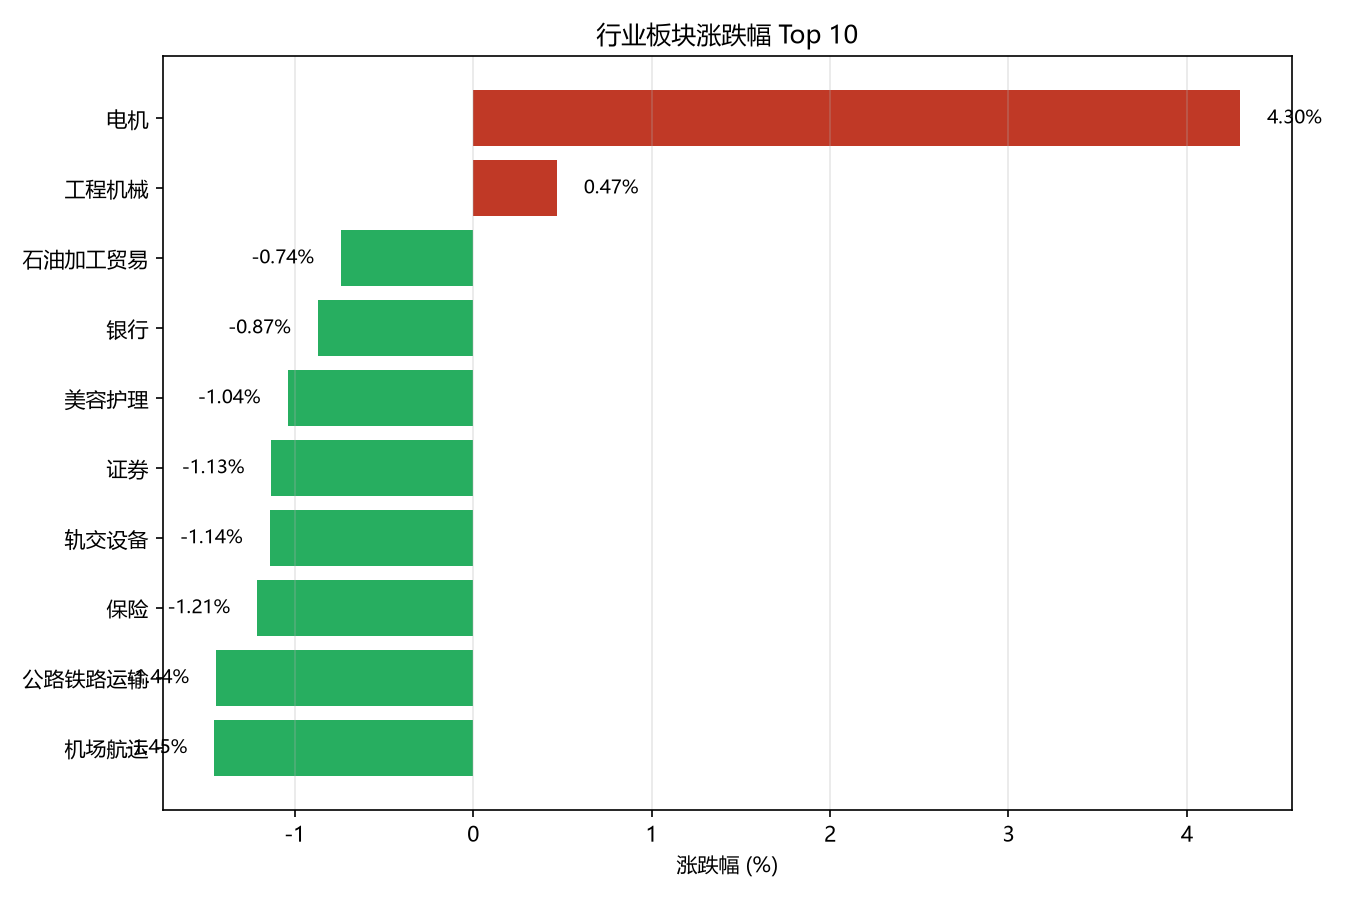
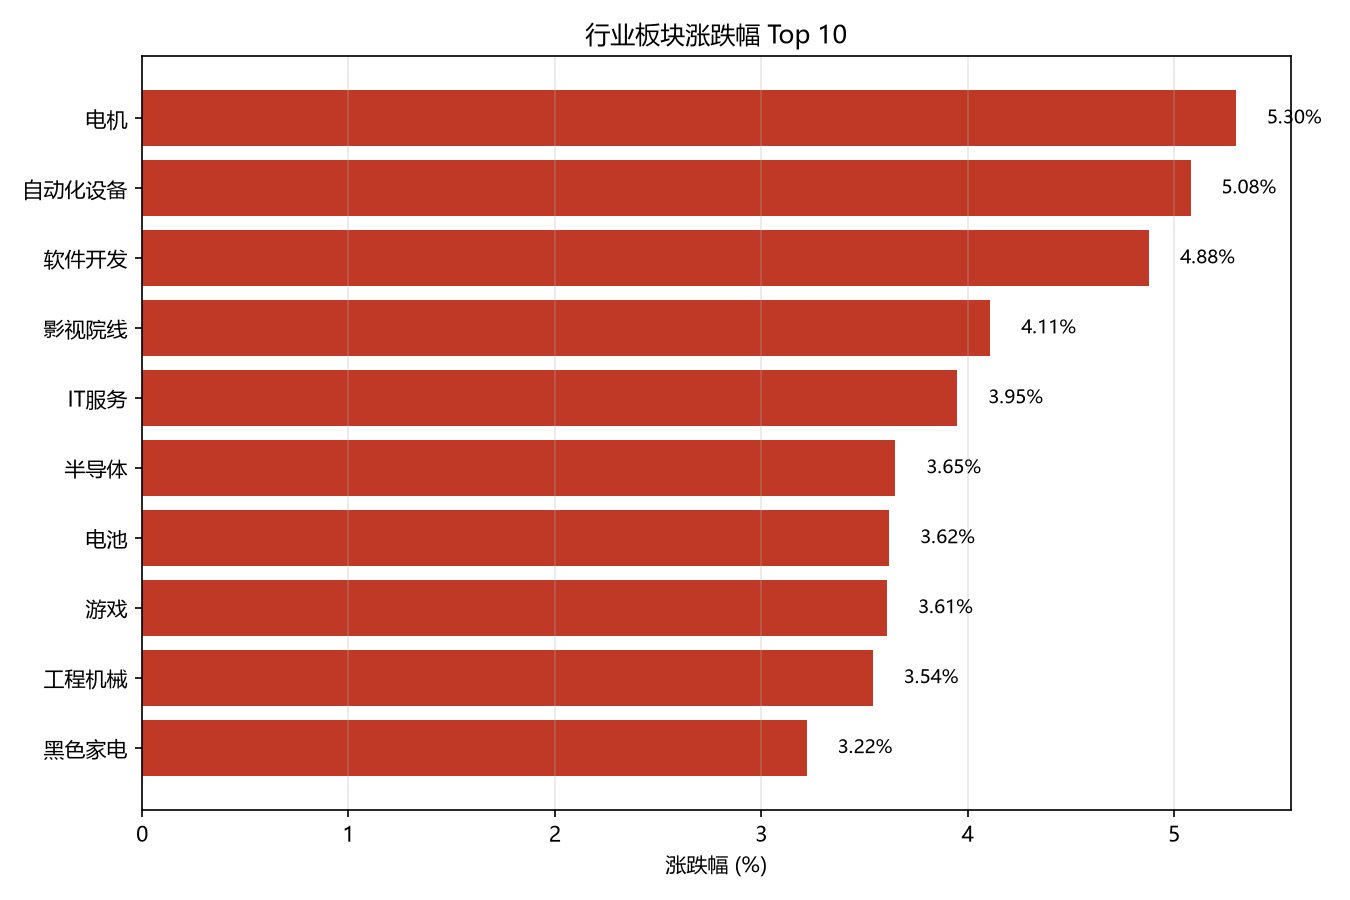
报告改为快照归档：README 只留口径与方法，结论按日期存入 reports/
- 新增 reports/20261022.md、reports/20261024.md，README 不再内嵌会过期的数字
- 新增 stats.py：从快照输出涨跌分布、r、R²、p 值，避免只报相关系数
- README 补目录结构与两源口径差异（东财 496 / 同花顺 90 不可跨源比较）

diff --git a/stats.py b/stats.py
@@ -1,0 +1,47 @@
+"""Compute the numbers the README/reports need from a local snapshot. Read-only."""
+import math
+import sys
+
+import pandas as pd
+
+CSV = sys.argv[1]
+df = pd.read_csv(CSV, encoding='utf-8-sig')
+
+n = len(df)
+up = int((df['涨跌幅'] > 0).sum())
+down = int((df['涨跌幅'] < 0).sum())
+flat = int((df['涨跌幅'] == 0).sum())
+lo, hi = df['涨跌幅'].min(), df['涨跌幅'].max()
+r = df['涨跌幅'].corr(df['成交额'])
+
+# two-sided p for Pearson r, no scipy: t -> numeric integration of the t pdf
+def t_p(r, n):
+    if n < 4 or abs(r) >= 1:
+        return float('nan')
+    t = abs(r) * math.sqrt(n - 2) / math.sqrt(1 - r * r)
+    dfree = n - 2
+    c = math.gamma((dfree + 1) / 2) / (math.sqrt(dfree * math.pi) * math.gamma(dfree / 2))
+    f = lambda u: c * (1 + u * u / dfree) ** (-(dfree + 1) / 2)
+    lo_b, steps, h = t, 4000, (t * 12) / 4000
+    s = f(lo_b) + f(lo_b + steps * h)
+    for i in range(1, steps):
+        s += f(lo_b + i * h) * (4 if i % 2 else 2)
+    tail = s * h / 3
+    return 2 * tail
+
+top5 = df.sort_values('涨跌幅', ascending=False).head(5)
+amt5 = df.sort_values('成交额', ascending=False).head(5)
+total_amt = df['成交额'].sum()
+
+print(f'FILE {CSV}')
+print(f'n={n} up={up} down={down} flat={flat} range={lo:.2f}~{hi:.2f}')
+print(f'r={r:.4f} R2={r * r:.4f} p={t_p(r, n):.4f}')
+print('--- 涨跌幅 Top5 ---')
+for _, row in top5.iterrows():
+    print(f"  {row['板块名称']}\t{row['涨跌幅']:+.2f}%\t成交额 {row['成交额']:.2f}")
+print(f'--- 成交额 Top5 (上涨 {int((amt5["涨跌幅"] > 0).sum())}/{len(amt5)}) ---')
+for _, row in amt5.iterrows():
+    print(f"  {row['板块名称']}\t{row['成交额']:.2f}\t{row['涨跌幅']:+.2f}%")
+print(f'成交额 Top5 合计 {amt5["成交额"].sum():.2f} / 全市场 {total_amt:.2f} = {amt5["成交额"].sum() / total_amt:.1%}')
+print(f'上涨板块: {", ".join(df[df["涨跌幅"] > 0].sort_values("涨跌幅", ascending=False)["板块名称"].tolist()) or "无"}')
+print(f'下跌板块数前3: {", ".join(df.sort_values("涨跌幅")[["板块名称"]].head(3)["板块名称"].tolist())}')

diff --git a/README.md b/README.md
@@ -1,87 +1,65 @@
 # 行业板块行情分析
 
+抓 A 股行业板块的**单日行情快照**，落地成本地 CSV，下游脚本离线分析出涨跌分布、涨跌幅与成交额的关系、成交额集中度，并生成一张 Top 10 图。
+
+一条原则贯穿全项目：**只有 `update.py` 联网，其余脚本只读本地快照**。数据源挂了不影响分析和出图。
+
+## 目录结构
+
+```
+update.py     抓取 → data/*.csv            唯一联网的脚本
+analyze.py    读快照，输出三段分析          不联网
+chart.py      读快照，画 top10.png          不联网
+stats.py      从快照算出报告要用的数字（分布 / 相关系数 / p 值）
+check.py      环境与依赖自检
+data/         industry_YYYYMMDD_HHMMSS.csv 快照 + latest.csv（最新一份）
+reports/      每次快照的结论归档，一个快照一篇
+```
+
 ## 数据
 
 | 项目 | 内容 |
 |---|---|
-| 数据源 | 同花顺行业板块（akshare `stock_board_industry_summary_ths`） |
-| 抓取时间 | 2026-10-22 21:06:47 |
-| 快照文件 | `data/industry_20261022_210647.csv`（`latest.csv` 为同一份） |
-| 数据量 | 90 行 × 7 个业务字段 |
-| 字段 | 板块名称、涨跌幅、上涨家数、下跌家数、总市值、换手率、成交额 |
+| 主源 | 东方财富 `stock_board_industry_name_em`：496 个细分板块，含总市值、换手率 |
+| 备源 | 同花顺 `stock_board_industry_summary_ths`：90 个一级行业，缺总市值、换手率 |
+| 降级规则 | 主源失败自动切备源；两源都失败则保留上次快照并提示，不删旧数据 |
+| 当前快照 | `data/latest.csv`（抓取时间见该文件的「抓取时间」列） |
+| 标准字段 | 板块名称、涨跌幅、上涨家数、下跌家数、总市值、换手率、成交额 |
 
-> ⚠ 本数据源不含「总市值」和「换手率」两个字段，因此相关分析改用「成交额」替代，
-> 并在下文逐处标注。分析脚本 `analyze.py` 会自动检测字段是否可用，缺失时降级而非报错。
+> ⚠ **口径不同，跨源数字不可直接比较。** 东财 496 行是多层级分类（同一行业在不同粒度重复出现），
+> 同花顺 90 行是单一层级。同一数据源的不同日期可以比较；不同数据源之间不行。
 
-## 结论
 ![涨跌幅 Top10](top10.png)
-### 1. 市场整体：极端普跌
 
-90 个行业板块中 **上涨 2 个、下跌 88 个、平盘 0 个，下跌占比 97.8%**，
-涨跌幅区间 -6.52% ~ +4.30%。
+## 快照报告
 
-仅有的 2 个上涨板块：电机 +4.30%、工程机械 +0.47%。
+每次抓完存一份结论，不改写历史 —— 否则 README 里的数字会随数据一起过期：
 
-> 注：因为全市场只有 2 个板块上涨，所谓「涨幅榜前 5」中有 3 个实际是下跌的，
-> 本质上是「跌幅最小的 5 个」。原始表述在此行情下会误导读者。
+- `reports/20261022.md` —— 2026-10-22 快照（同花顺，90 行）：普跌日，90 个板块里 88 个下跌
+- `reports/20261024.md` —— 2026-10-24 快照（同花顺，90 行）：普涨日 + 与 10/22 的两日对比
 
-涨幅前 5 名：
-
-| 排名 | 板块 | 涨跌幅 |
-|---|---|---|
-| 1 | 电机 | +4.30% |
-| 2 | 工程机械 | +0.47% |
-| 3 | 石油加工贸易 | -0.74% |
-| 4 | 银行 | -0.87% |
-| 5 | 美容护理 | -1.04% |
-
-### 2. 涨跌幅与交易活跃度的关系
-
-涨跌幅与成交额的相关系数为 **-0.135**，属弱负相关：
-成交额越大的板块，倾向于跌得越多，但关系并不紧密。
-
-（原分析使用「换手率」，本数据源无此字段，改用「成交额」作为交易活跃度的代理指标。）
-
-### 3. 成交额 Top5 的涨跌情况
-
-成交额最大的 5 个板块 **全部下跌（0 / 5 上涨）**：
-
-| 板块 | 成交额（亿元） | 涨跌幅 |
-|---|---|---|
-| 半导体 | 1901.86 | -2.96% |
-| 通信设备 | 1192.75 | -3.85% |
-| 元件 | 796.29 | -5.38% |
-| 电池 | 531.47 | -2.82% |
-| 通用设备 | 490.21 | -1.81% |
-
-这 5 个板块合计成交 **4912.6 亿元**，占全市场 15418.6 亿元的 **31.9%**。
-资金高度集中在跌幅最大的科技制造板块 —— 典型放量下跌。
-
-## 发现的问题
+## 口径与陷阱
 
 - **数据源字段不一致**：同花顺缺「总市值」「换手率」，东方财富有但板块数为 496（口径更细）。
   两个源的板块划分不同（90 vs 496），跨源比较必须先统一口径，否则结论不可比。
 - **字段存在 ≠ 字段有值**：`latest.csv` 里「总市值」「换手率」两列是存在的，但值全为空。
   如果直接 `df['总市值']`，排序会退化成「不排序」，产出看似正常、实则错误的 Top5。
-  `analyze.py` 中的 `pick()` 函数用两个条件（列存在 + 非全空）来防止这类静默错误。
-- **极端行情下的表述陷阱**：单日普跌时，「涨幅榜」的语义失效。
-  结论必须同时给出涨跌分布，否则读者会把「跌幅最小」误读成「上涨」。
+  `analyze.py` 中的 `pick()` 用两个条件（列存在 + 非全空）来防止这类静默错误。
+- **极端行情下的表述陷阱**：单日普跌时，「涨幅榜」的语义失效。结论必须同时给出涨跌分布，
+  否则读者会把「跌幅最小」误读成「上涨」。
+- **成交额 ≠ 活跃度**：换手率是比例（成交量 ÷ 流通股本），成交额是金额（成交量 × 均价）。
+  用成交额排序得到的是「规模最大」而不是「换手最活跃」。更严谨的代理是「成交额 ÷ 流通市值」，
+  但本数据源不提供流通市值。
 
 ## 局限与下一步
 
-- **数据维度：只有单日横截面，没有时间维度。** 所有结论仅描述当日状态；无法计算变化率，
-  因此不支持任何「趋势」「资金流向」「转向」类判断。要做趋势分析，至少需要连续多日快照
-  ——现有的 `data/industry_*.csv` 快照机制已能支撑，缺的只是定时采集。
-- **指标代理：用成交额代替换手率，存在系统性偏差。** 换手率 = 成交量 ÷ 流通股本（比例），
-  成交额 = 成交量 × 平均价（金额）。后者既受价格影响，也没有除以股本，因此「成交额 Top5」
-  排序接近「规模 Top5」而不是「活跃度 Top5」。更严谨的替代是「成交额 ÷ 流通市值」，
-  但本数据源不提供流通市值。
-- **统计检验：相关结论不具备显著性。** 涨跌幅与成交额的相关系数 -0.135，n=90，
-  检验得 p≈0.20，在 0.05 水平下不显著，不足以支持「两者存在关联」的判断。
-  下一步应补充 p 值报告，或改用更稳健的方法（Spearman 秩相关、分组对比）。
-- **口径固定：跨数据源不可比。** 东方财富为多层级行业分类（496 行，同一行业在不同粒度
-  重复出现），同花顺为单一层级（90 行）。Top 榜在两种口径下不可直接比较。
-  下一步应固定单一数据源，或建立口径映射表。
+- **只有单日横截面，没有时间维度。** 所有结论仅描述当日状态；无法计算变化率，
+  因此不支持任何「趋势」「资金流向」「转向」类判断。快照机制已能支撑时序分析，缺的只是定时采集。
+- **两个采样点不构成趋势。** 10/22 与 10/24 同源（同花顺 90 行）可以比较分布变化，
+  但方向性结论至少要连续 20 个交易日。
+- **相关分析必须同时报 r、R²、p 值。** 只报 r 会高估关系强度：本数据 r≈0.27 时 R² 仅 0.073，
+  即成交额只能解释涨跌幅 7.3% 的变异。`stats.py` 已同时输出三者。
+  下一步可改用更稳健的方法（Spearman 秩相关、分组对比）。
 - **工程化缺口：无定时采集、无自动测试。** 数据依赖手工运行 `update.py`，无法保证每日更新；
   代码改动后也没有断言校验，只能靠人工看输出。下一步应加入调度（每日收盘后运行）
   与基础校验断言（行数 > 0、涨跌幅落在合理区间等）。
@@ -89,16 +67,17 @@
 ## 如何复现
 
 ```
-python update.py     # 抓数据 → data/latest.csv
-python analyze.py    # 三个问题的分析
-python chart.py      # 生成 top10.png
+python update.py                    # 抓数据 → data/latest.csv（需联网）
+python analyze.py                   # 三段分析
+python chart.py                     # 生成 top10.png
+python stats.py data/latest.csv     # 报告要用的分布 / 相关系数 / p 值
 ```
 
-`analyze.py` 与 `chart.py` 只读本地 CSV，不联网；只有 `update.py` 需要网络。
+`analyze.py`、`chart.py`、`stats.py` 只读本地 CSV，不联网；只有 `update.py` 需要网络。
 数据源不可用时，`update.py` 会自动切换备用源；全部失败则保留上次快照并提示。
 
 ## 环境
 
-- Python 3.14.5（C:\Python314），虚拟环境 `.venv`
+- Python 3.14.5，虚拟环境 `.venv`（调用方式：`.venv\Scripts\python.exe update.py`）
 - pandas 3.0.6 / matplotlib 3.11.2 / akshare 1.19.1
 - Windows 10 + VS Code

diff --git a/reports/20261024.md b/reports/20261024.md
@@ -1,0 +1,74 @@
+# 2026-10-24 快照（同花顺，90 行）
+
+- 数据源：同花顺行业板块（akshare `stock_board_industry_summary_ths`）—— 当日东财主源被拒连，自动降级
+- 快照文件：`data/industry_20261024_150912.csv`
+- 数据量：90 行 × 7 个标准字段（「总市值」「换手率」为空列，相关分析改用「成交额」）
+
+## 1. 市场整体：普涨
+
+90 个行业板块中 **上涨 84 个、下跌 6 个、平盘 0 个，上涨占比 93.3%**，涨跌幅区间 -0.54% ~ +5.30%。
+仅有的 6 个下跌板块（全部微跌）：
+
+| 板块 | 涨跌幅 | 成交额（亿元） |
+|---|---|---|
+| 银行 | -0.54% | 461.88 |
+| 电力 | -0.38% | 318.80 |
+| 元件 | -0.13% | 972.37 |
+| 石油加工贸易 | -0.10% | 86.90 |
+| 种植业与林业 | -0.08% | 66.39 |
+| 公路铁路运输 | -0.05% | 46.38 |
+
+涨幅前 5 名：
+
+| 排名 | 板块 | 涨跌幅 | 成交额（亿元） |
+|---|---|---|---|
+| 1 | 电机 | +5.30% | 129.51 |
+| 2 | 自动化设备 | +5.08% | 506.00 |
+| 3 | 软件开发 | +4.88% | 589.43 |
+| 4 | 影视院线 | +4.11% | 111.63 |
+| 5 | IT服务 | +3.95% | 458.30 |
+
+与前一日不同，本日「涨幅榜前 5」全部为真实上涨，榜单语义成立 —— 但仍需配上分布才能判断强弱：
+93.3% 上涨意味着这是一个**全面普涨日**，Top5 只说明结构上谁最强，不说明市场整体强度。
+
+## 2. 涨跌幅与成交额的关系
+
+相关系数 **r = 0.270**，R² = 0.073，n = 90，双侧 **p ≈ 0.010**。
+
+- 在 0.05 水平下**统计显著**，方向为正：成交额越大的板块，当日涨幅倾向越高。
+- 但 R² 只有 0.073 —— 成交额只能解释涨跌幅变异的 **7.3%**，其余 92.7% 来自别的因素。
+- 结论只能写到这一步：**存在弱正相关**。不能说「资金推动上涨」，也不能据此排序选板块。
+
+（原始分析用「换手率」，本数据源无该字段，改用「成交额」作代理指标。）
+
+## 3. 成交额 Top5 的涨跌情况
+
+| 板块 | 成交额（亿元） | 涨跌幅 |
+|---|---|---|
+| 半导体 | 2605.47 | +3.65% |
+| 通信设备 | 1350.00 | +1.11% |
+| 元件 | 972.37 | -0.13% |
+| 电池 | 698.53 | +3.62% |
+| 通用设备 | 647.72 | +3.10% |
+
+5 个板块合计成交 **6274.1 亿元**，占全市场 19728.6 亿元的 **31.8%**，其中 4 个上涨。
+成交额集中在科技制造方向，与普涨日的领涨结构一致；元件是其中唯一微跌的板块。
+
+## 4. 与 10-22 快照的对比（同源同口径）
+
+| 指标 | 2026-10-22 | 2026-10-24 |
+|---|---|---|
+| 上涨 / 下跌 | 2 / 88 | 84 / 6 |
+| 涨跌幅区间 | -6.52% ~ +4.30% | -0.54% ~ +5.30% |
+| r（涨跌幅 vs 成交额） | -0.135（p≈0.20，不显著） | +0.270（p≈0.010，显著） |
+| 成交额 Top5 占全市场 | 31.9% | 31.8% |
+| 成交额 Top1 | 半导体 1901.86 亿，-2.96% | 半导体 2605.47 亿，+3.65% |
+
+两日最稳定的事实是**成交额集中度**（都在 31.8% 左右），最不稳定的是**相关性方向**（正负翻转）。
+这说明 r 在小样本单日截面上并不稳定 —— 两个采样点不足以下任何结论，只作为后续时序分析的起点。
+
+## 复现
+
+```
+python stats.py data/industry_20261024_150912.csv
+```

diff --git a/reports/20261022.md b/reports/20261022.md
@@ -1,0 +1,55 @@
+# 2026-10-22 快照（同花顺，90 行）
+
+- 数据源：同花顺行业板块（akshare `stock_board_industry_summary_ths`）
+- 快照文件：`data/industry_20261022_210647.csv`
+- 数据量：90 行 × 7 个标准字段（「总市值」「换手率」为空列，相关分析改用「成交额」）
+
+## 1. 市场整体：极端普跌
+
+90 个行业板块中 **上涨 2 个、下跌 88 个、平盘 0 个，下跌占比 97.8%**，涨跌幅区间 -6.52% ~ +4.30%。
+仅有的 2 个上涨板块：电机 +4.30%、工程机械 +0.47%。
+
+> 全市场只有 2 个板块上涨，所谓「涨幅榜前 5」里有 3 个实际是下跌的，本质是「跌幅最小的 5 个」。
+> 这种行情下只报榜单会误导读者，必须同时给出涨跌分布。
+
+| 排名 | 板块 | 涨跌幅 |
+|---|---|---|
+| 1 | 电机 | +4.30% |
+| 2 | 工程机械 | +0.47% |
+| 3 | 石油加工贸易 | -0.74% |
+| 4 | 银行 | -0.87% |
+| 5 | 美容护理 | -1.04% |
+
+## 2. 涨跌幅与成交额的关系
+
+相关系数 **r = -0.135**，R² = 0.018，n = 90，双侧 **p ≈ 0.203**。
+在 0.05 水平下不显著 —— **不足以支持「两者存在关联」的判断**，只能说「本日未观察到显著关系」。
+
+（原始分析用「换手率」，本数据源无该字段，改用「成交额」作交易活跃度的代理指标。）
+
+## 3. 成交额 Top5 的涨跌情况
+
+成交额最大的 5 个板块 **全部下跌（0 / 5 上涨）**：
+
+| 板块 | 成交额（亿元） | 涨跌幅 |
+|---|---|---|
+| 半导体 | 1901.86 | -2.96% |
+| 通信设备 | 1192.75 | -3.85% |
+| 元件 | 796.29 | -5.38% |
+| 电池 | 531.47 | -2.82% |
+| 通用设备 | 490.21 | -1.81% |
+
+5 个板块合计成交 **4912.6 亿元**，占全市场 15418.6 亿元的 **31.9%**。
+即当日成交额高度集中在跌幅靠前的科技制造板块 —— 可描述为「放量下跌」，但仅限当日。
+
+## 复现
+
+该快照已存为 `data/industry_20261022_210647.csv`。要看当日结论，把它复制成 `latest.csv` 后运行：
+
+```
+copy data\industry_20261022_210647.csv data\latest.csv
+python analyze.py
+python stats.py data/latest.csv
+```
+
+（`update.py` 没有 `--snapshot` 参数；它只负责抓新数据。）
